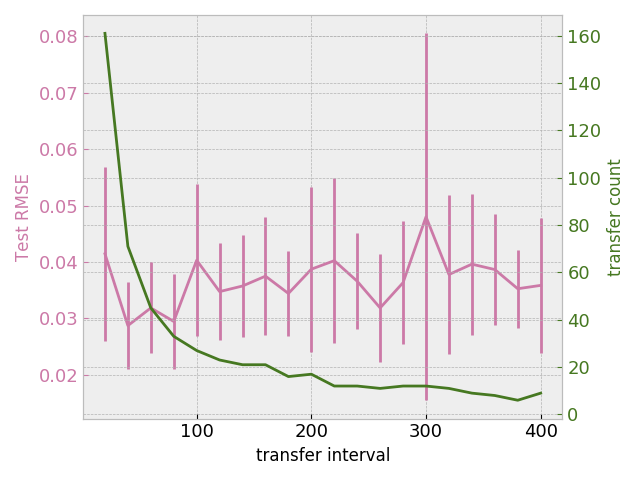
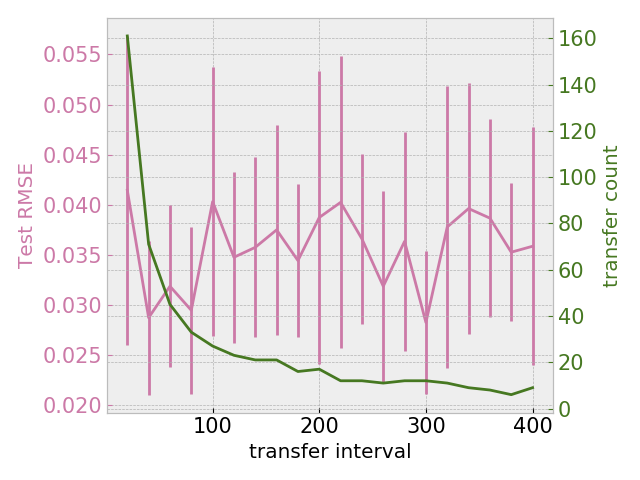
classification results updated

Changed region(s): [[0.0, 0.0312, 0.9688, 0.9688]]

diff --git a/transfer-learning/mcmc-transfer-learning/plot_transfer_count.py b/transfer-learning/mcmc-transfer-learning/plot_transfer_count.py
@@ -4,9 +4,9 @@ import matplotlib as mpl
 
 mpl.style.use('bmh')
 
-mpl.rcParams.update({'font.size': 10})
-mpl.rc('xtick', labelsize=13)
-mpl.rc('ytick', labelsize=13)
+mpl.rcParams.update({'font.size': 12})
+mpl.rc('xtick', labelsize=15)
+mpl.rc('ytick', labelsize=15)
 
 
 
@@ -46,7 +46,7 @@ fig, ax1 = plt.subplots()
 plt.errorbar(prob, test_rmse_trf, xerr=0, yerr=test_std_trf, color='C4')
 ax1.set_xlabel('transfer probabilities')
 # Make the y-axis label, ticks and tick labels match the line color.
-ax1.set_ylabel('RMSE', color='C4')
+ax1.set_ylabel('Test RMSE', color='C4')
 ax1.tick_params('y', colors='C4')
 
 ax2 = ax1.twinx()

diff --git a/transfer-learning/mcmc-transfer-learning/plot_quantum.py b/transfer-learning/mcmc-transfer-learning/plot_quantum.py
@@ -4,9 +4,9 @@ import matplotlib as mpl
 
 mpl.style.use('bmh')
 
-mpl.rcParams.update({'font.size': 10})
-mpl.rc('xtick', labelsize=13)
-mpl.rc('ytick', labelsize=13)
+mpl.rcParams.update({'font.size': 12})
+mpl.rc('xtick', labelsize=15)
+mpl.rc('ytick', labelsize=15)
 
 
 
@@ -53,5 +53,5 @@ ax2.set_ylabel('transfer count', color='C3')
 ax2.tick_params('y', colors='C3')
 
 fig.tight_layout()
-
+# plt.show()
 plt.savefig('quantum.png')
